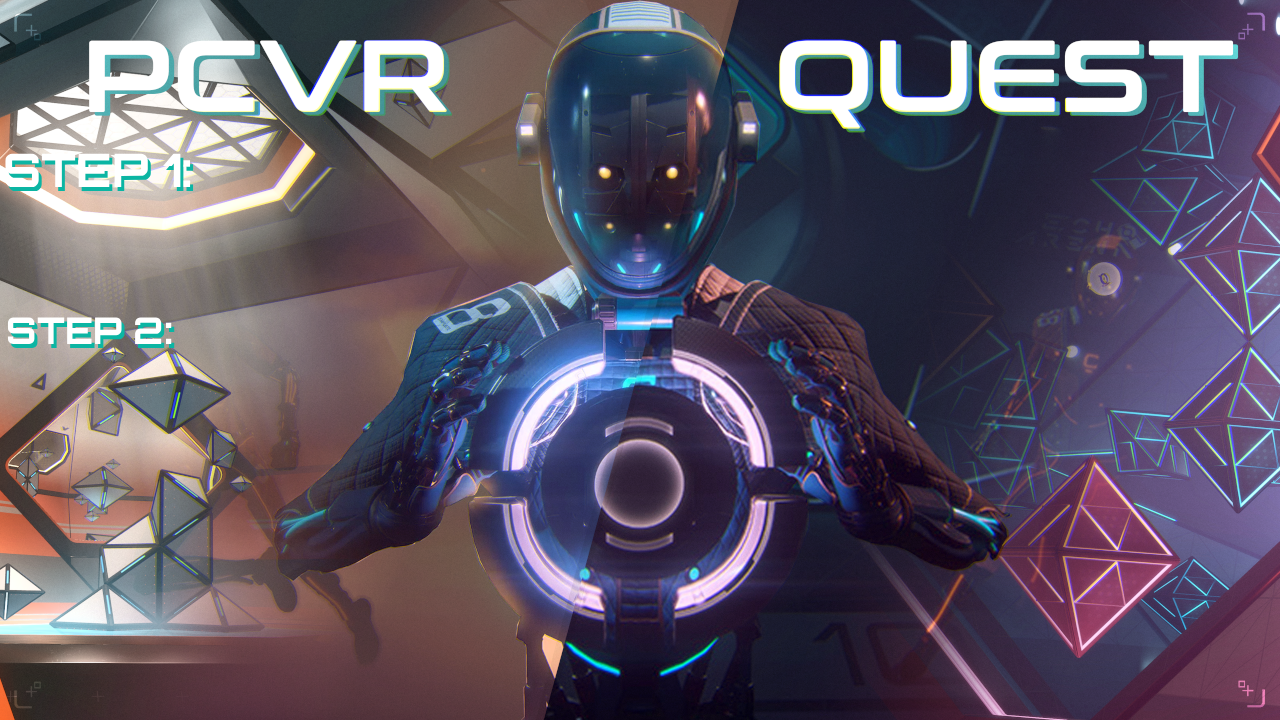
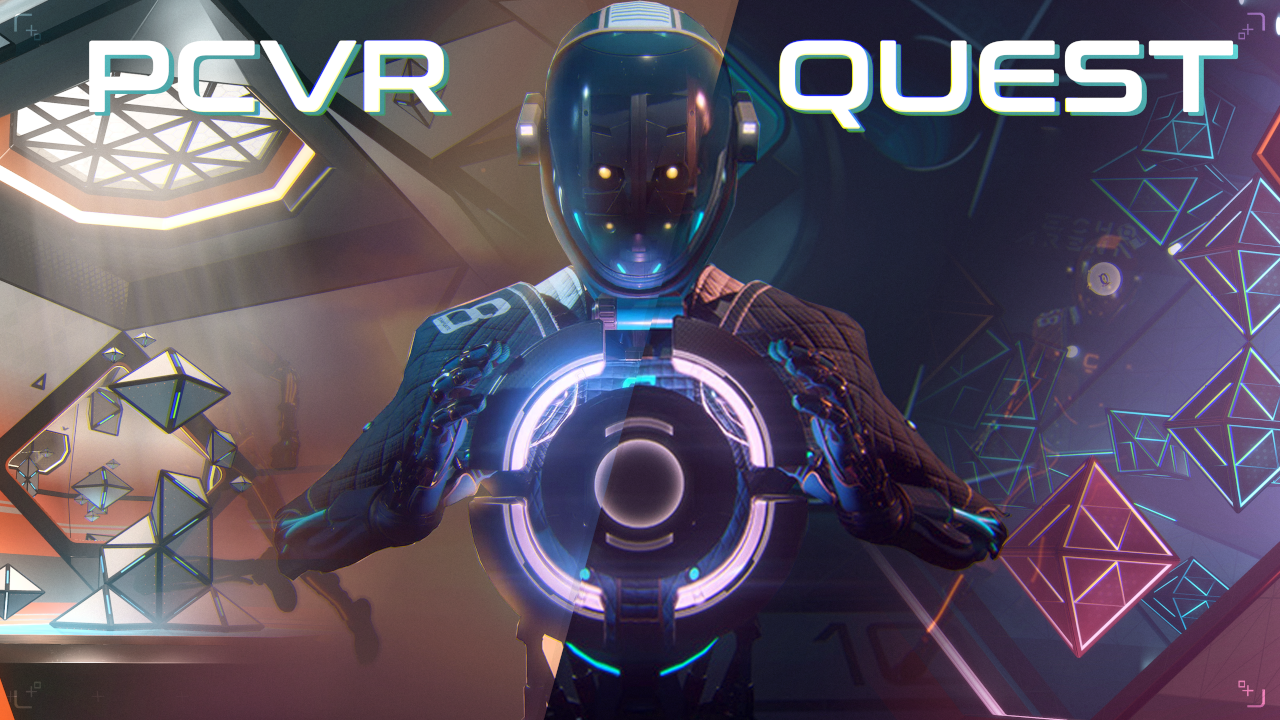
so uh... just changing the image and putting text doesnt look great so i changed the button text and the patch container text (slightly), should make clear for those who are having the inability to read at the time they install the game

Changed region(s): [[0.0, 0.2139, 0.1562, 0.275], [0.0, 0.4278, 0.1562, 0.4889]]

diff --git a/src/main/java/bl00dy_c0d3_/echovr_installer/FrameMain.java b/src/main/java/bl00dy_c0d3_/echovr_installer/FrameMain.java
@@ -98,7 +98,7 @@ public class FrameMain extends JFrame {
 
 
     private void addPCButtons(JPanel back, FrameMain outFrame) {
-        SpecialButton btn_PCInstallEcho = new SpecialButton("PC Install Echo", "button_up.png", "button_down.png", "button_highlighted.png", 20);
+        SpecialButton btn_PCInstallEcho = new SpecialButton("Step 1: Install Echo", "button_up.png", "button_down.png", "button_highlighted.png", 20);
         btn_PCInstallEcho.setLocation((FRAME_WIDTH / 2 - btn_PCInstallEcho.getWidth()) / 2, 200);
         btn_PCInstallEcho.addMouseListener(new MouseAdapter() {
             public void mouseReleased(MouseEvent event) {
@@ -118,11 +118,11 @@ public class FrameMain extends JFrame {
         back.add(btn_PCUpdateEcho);
 
 
-        SpecialLabel optionalPCLabel = createSpecialLabel("The following patches are optional", 20);
+        SpecialLabel optionalPCLabel = createSpecialLabel("Step 2: Use these patches if needed!", 20);
         optionalPCLabel.setLocation((FRAME_WIDTH / 2 - optionalPCLabel.getPreferredSize().width) / 2, 360);
         back.add(optionalPCLabel);
 
-        SpecialLabel optionalPCLabel2 = createSpecialLabel("(Only use them if you have to)", 10);
+        SpecialLabel optionalPCLabel2 = createSpecialLabel("(These patches are fully optional, you may need them though!)", 10);
         optionalPCLabel2.setLocation((FRAME_WIDTH / 2 - optionalPCLabel2.getPreferredSize().width) / 2, 395);
         back.add(optionalPCLabel2);
 
